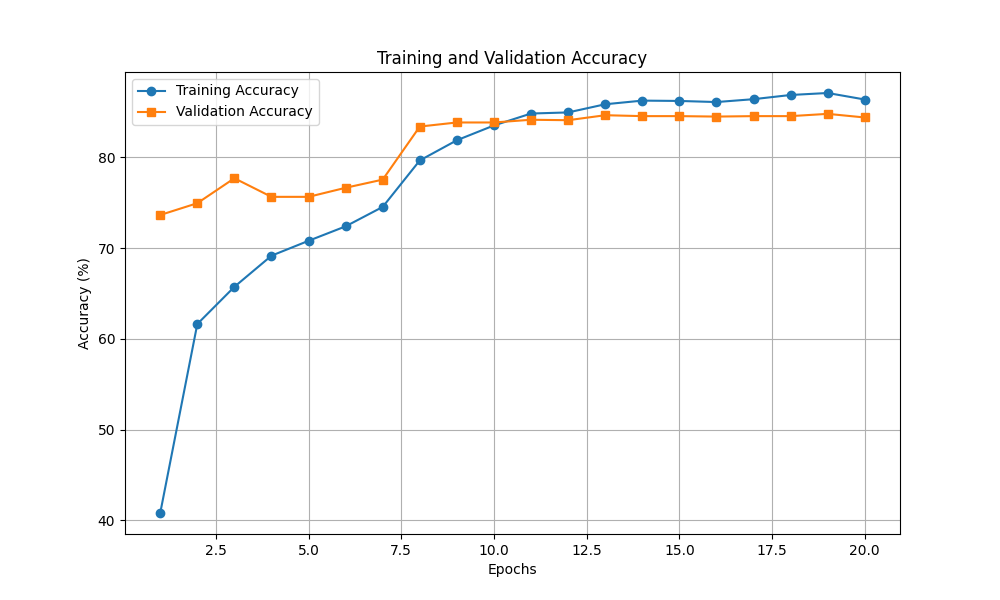
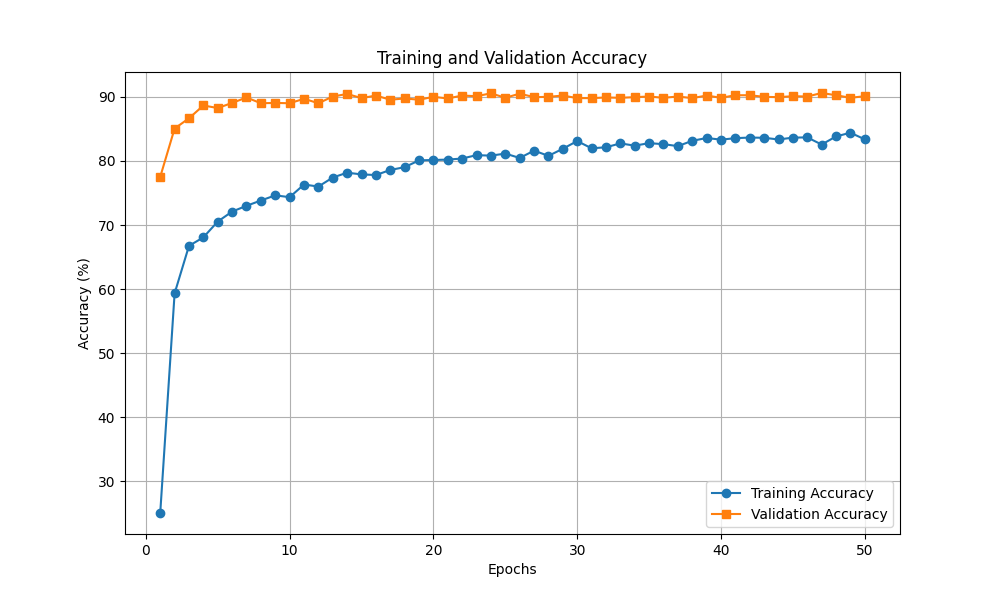
Add files via upload
accuracy_plot.png:训练过程中的准确率曲线图
train.py:训练获取模型代码
loader.py：加载数据集，增强训练集等

diff --git a/training/train.py b/training/train.py
@@ -13,7 +13,7 @@ def train_model():
     
     # 2. 参数设置
     batch_size = 64
-    epochs = 20
+    epochs = 50
     learning_rate = 0.0003
     best_acc = 0.0
 
@@ -28,7 +28,7 @@ def train_model():
     # 4. 初始化模型
     print("正在加载本地预训练模型 ResNet50...")
     model = models.resnet50(weights=None) 
-    local_weights_path = 'resnet50-11ad3fa6.pth'
+    local_weights_path = '../models/resnet50-11ad3fa6.pth'
     
     if os.path.exists(local_weights_path):
         state_dict = torch.load(local_weights_path)
@@ -39,13 +39,22 @@ def train_model():
         return
 
     num_ftrs = model.fc.in_features
-    model.fc = nn.Linear(num_ftrs, len(classes)) 
+    model.fc = nn.Sequential(
+    nn.Dropout(0.3),  # 丢弃 30% 的神经元防止过拟合
+    nn.Linear(num_ftrs, len(classes))
+) 
     model = model.to(device)
 
     # 5. 定义损失函数和优化器
-    criterion = nn.CrossEntropyLoss()
-    optimizer = optim.Adam(model.parameters(), lr=learning_rate)
-    scheduler = optim.lr_scheduler.StepLR(optimizer, step_size=7, gamma=0.1)
+    criterion = nn.CrossEntropyLoss(label_smoothing=0.1)
+    optimizer = optim.Adam([
+        {'params': model.layer1.parameters(), 'lr': learning_rate * 0.1},
+        {'params': model.layer2.parameters(), 'lr': learning_rate * 0.1},
+        {'params': model.layer3.parameters(), 'lr': learning_rate * 0.1},
+        {'params': model.layer4.parameters(), 'lr': learning_rate * 0.1},
+        {'params': model.fc.parameters(), 'lr': learning_rate} # 全连接层维持原速
+    ], lr=learning_rate * 0.1)
+    scheduler = optim.lr_scheduler.CosineAnnealingLR(optimizer, T_max=epochs)
 
     # 6. 正式训练循环
     print(f"\n🚀 训练启动！目标：识别 {len(classes)} 种狗狗")
@@ -107,7 +116,7 @@ def train_model():
         # 7. 保存最优模型
         if val_acc > best_acc:
             best_acc = val_acc
-            save_path = 'best_dog_model.pth'
+            save_path = '../models/best_dog_model.pth'
             torch.save({
                 'epoch': epoch,
                 'model_state_dict': model.state_dict(),

diff --git a/training/loader.py b/training/loader.py
@@ -3,7 +3,7 @@ from torchvision import datasets, transforms
 from torch.utils.data import DataLoader
 import os
 
-def get_data_loaders(data_dir='dataset_final', batch_size=32, image_size=224):
+def get_data_loaders(data_dir='../dataset_final', batch_size=32, image_size=224):
     """
     配置数据增强并返回训练/验证加载器
     :param data_dir: 数据集根目录
@@ -13,13 +13,15 @@ def get_data_loaders(data_dir='dataset_final', batch_size=32, image_size=224):
     
     # 1. 定义【训练集】的增强方案：旨在让模型见过各种各样的“变种”狗
     train_transform = transforms.Compose([
-        transforms.RandomResizedCrop(image_size), # 随机裁剪并缩放
-        transforms.RandomHorizontalFlip(),       # 随机水平翻转（狗头向左或向右不影响品种）
-        transforms.RandomRotation(15),           # 随机旋转一个小角度
-        transforms.ColorJitter(brightness=0.2, contrast=0.2, saturation=0.2), # 随机亮度/对比度
-        transforms.ToTensor(),                   # 转为张量
-        transforms.Normalize([0.485, 0.456, 0.406], [0.229, 0.224, 0.225]) # ImageNet 标准标准化
-    ])
+    transforms.RandomResizedCrop(image_size),
+    transforms.TrivialAugmentWide(), # 自动应用各种增强策略
+    transforms.RandomHorizontalFlip(),
+    transforms.RandomRotation(20),                # 稍微加大旋转角度
+    transforms.ColorJitter(0.3, 0.3, 0.3),        # 加强颜色抖动
+    transforms.RandomGrayscale(p=0.1),            # 10%概率变灰度，增加鲁棒性
+    transforms.ToTensor(),
+    transforms.Normalize([0.485, 0.456, 0.406], [0.229, 0.224, 0.225])
+])
 
     # 2. 定义【验证集】的方案：不加随机干扰，只做必要的标准化
     val_transform = transforms.Compose([
